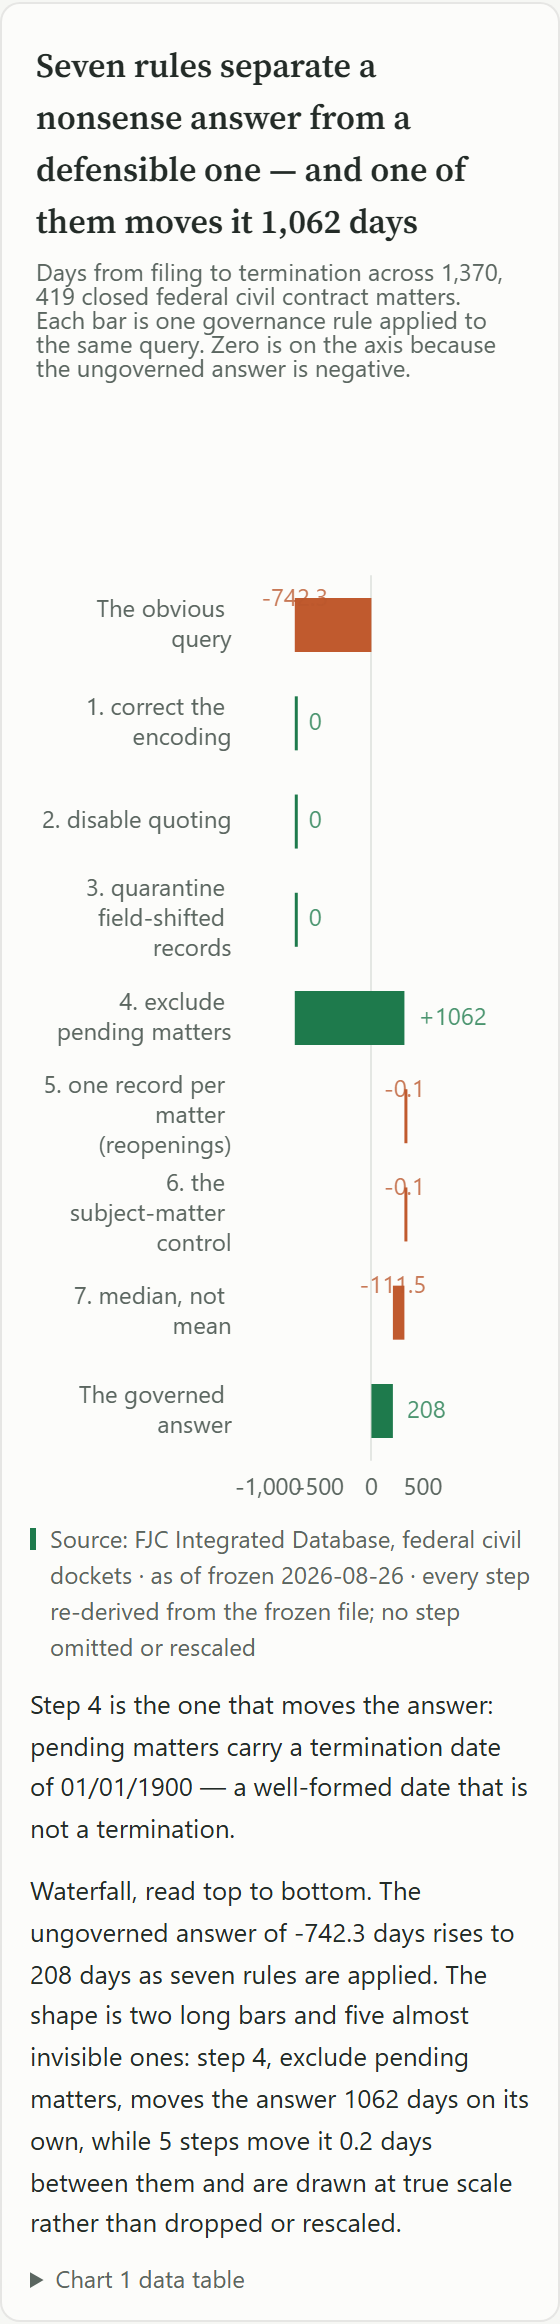
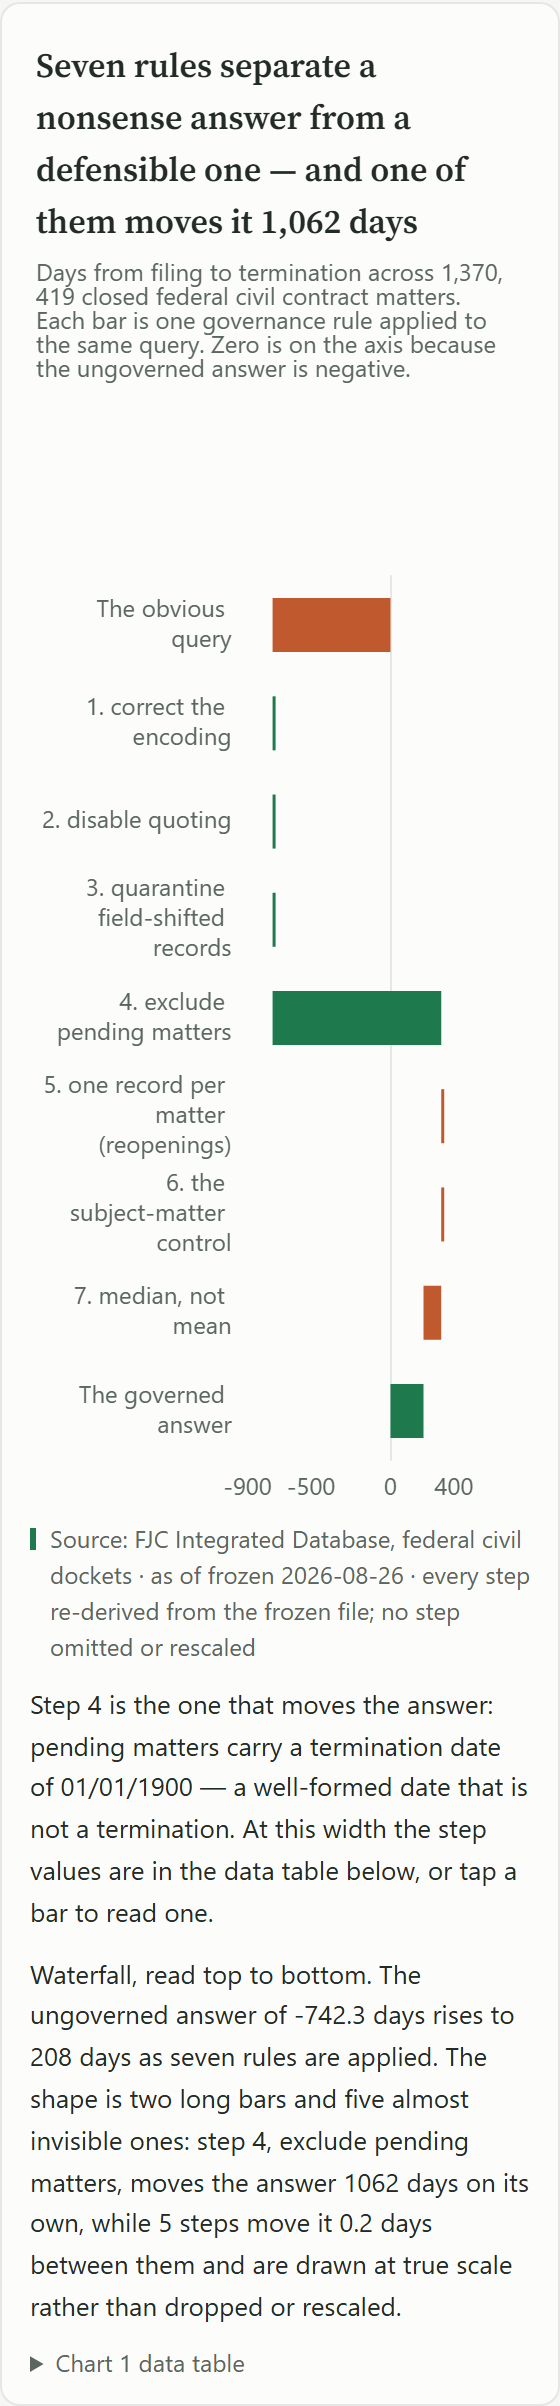
Chart 1 labels, and a tooltip gate that was reading the wrong thing
Aaron reported two things from a phone and a narrow desktop window. The first
was three defects stacked on top of each other.

LABELS OVER THEIR OWN BARS. Leftward bars used position 'top', and an ECharts
label position anchors to the DATA POINT, which sits at the row's vertical
centre -- not to the top of the rect. With distance 7 and a bar half-height
near 26px, "7px above the point" is 19px inside the bar. Rightward labels were
never affected, which is exactly why +1062 and the three zeros always looked
right and every negative value did not.

Fixing that moved the collision instead of ending it: at 320px the -742.3
label then landed on the CATEGORY label. Reserving room for a label is a
fixed-point problem and the original solved it once -- padding the axis widens
its range, which shrinks pixels-per-unit, which shrinks the gap the padding
just bought. Solving p*plotPx >= K*(R + 2p) for p closes the loop.

That exposed the real one. plotPx was ESTIMATED, and the estimate was 42%
wrong -- 146px where the measured ECharts grid is 103px at a 320px viewport.
Padding is proportional to 1/plotPx, so an over-estimated plot UNDER-reserves
room. That was the original cause of the whole class and no amount of position
tuning would have reached it. It is now measured, at four widths.

320px CANNOT BE SOLVED AND IS NOT PRETENDED OTHERWISE. A label needs ~57px at
each end of a 103px plot, so no padding value exists. Putting the label inside
[…]

diff --git a/docs/assets/page.js b/docs/assets/page.js
@@ -96,10 +96,21 @@
       // width sat between the two rendered widths and so was never checked.
       labelWidth: Math.max(96, Math.min(230, Math.round(w * 0.30))),
       gridRight: narrow ? 46 : 92,
-      // Rule 5.5 drop order step 1: the tooltip is the FIRST thing to go as
-      // the chart narrows, and CHART-REVIEW fails a hover-following tooltip
-      // at <=768 px outright. The data tables carry the values either way.
-      tooltip: w > 768,
+      // What CHART-REVIEW 5.5 fails is a HOVER-FOLLOWING tooltip at <=768 px,
+      // and the reason is touch: there is no hover, and a readout that chases
+      // the finger covers the mark it is describing. The old gate here read
+      // the WIDTH instead of the capability, which got both cases wrong -- a
+      // narrow desktop window has a mouse and lost its tooltip anyway, and a
+      // phone lost it for a reason that was never about size.
+      //
+      // So: ask the pointer what it is. A fine pointer that can hover keeps
+      // the hover tooltip at every width. Everything else gets the same
+      // readout on TAP, anchored above the plot rather than under the finger
+      // -- which is not a hover-following tooltip and does not engage 5.5.
+      // The data tables remain the guaranteed layer either way (Rule 5.1).
+      tooltip: true,
+      tapTip: !(window.matchMedia &&
+                window.matchMedia('(hover: hover) and (pointer: fine)').matches),
       abbrev: function (s) { return narrow && ABBREV[s] ? ABBREV[s] : s; }
     };
   }
@@ -124,6 +135,14 @@
       trigger: opts.trigger || 'item',
       confine: true,
       appendToBody: false,
+      // On touch the readout is summoned by a tap and pinned to the top of
+      // the chart, clear of the finger and of the mark being read. On a
+      // mouse it behaves as before.
+      triggerOn: L.tapTip ? 'click' : 'mousemove|mouseout',
+      position: L.tapTip ? function (pt, params, dom, rect, size) {
+        var x = Math.round((size.viewSize[0] - size.contentSize[0]) / 2);
+        return [Math.max(4, x), 4];
+      } : undefined,
       axisPointer: opts.trigger === 'axis' ? { type: 'line' } : undefined,
       formatter: opts.formatter
     };
@@ -281,8 +300,12 @@
       var t = sp.anchor ? String(sp.to) : (sp.delta > 0 ? '+' : '') + sp.delta;
       widestLabel = Math.max(widestLabel, _m.measureText(t).width);
     });
-    var plotPx = Math.max(120,
-      L.w - 8 - L.labelWidth - (L.narrow ? 40 : 92) - 30);
+    // Measured against the real ECharts grid rect, not estimated. The old
+    // expression returned 146 px at a 320 px viewport where the grid is
+    // actually 103 -- 42% too generous. Because the padding below is
+    // proportional to 1/plotPx, an over-estimated plot UNDER-reserves room,
+    // which is the original reason labels landed on their bars.
+    var plotPx = Math.max(60, L.w - L.labelWidth - 15 - L.gridRight);
     // The axis must cover EVERY span endpoint, not just the first and last
     // answers. The running total peaks at 319.8 after step 4 and then falls
     // back to 208, so bounds taken from start and end alone cut the axis at
@@ -292,7 +315,29 @@
     var pts = [0];
     spans.forEach(function (sp) { pts.push(sp.from, sp.to); });
     var dmin = Math.min.apply(null, pts), dmax = Math.max.apply(null, pts);
-    var pad = (widestLabel + 16) * ((dmax - dmin) / plotPx);
+    // Reserving room for a label is a FIXED-POINT problem and the first
+    // version solved it once, which is why 320 px still collided after the
+    // position fix. Padding the axis widens its range, which shrinks
+    // pixels-per-unit, which shrinks the very gap the padding just bought.
+    // Solving  p * plotPx >= K * (R + 2p)  for p closes the loop:
+    //
+    //     p >= K * R / (plotPx - 2K)
+    //
+    // 2K >= plotPx means no padding can ever fit a label at both ends -- the
+    // plot is simply too narrow. Inside-the-bar placement is the usual
+    // waterfall answer and is NOT available here: paper on madrona measures
+    // 4.31:1 and 12 px text needs 4.5:1, so it would trade a collision for a
+    // contrast failure. The label column yields instead; see layout().
+    var K = widestLabel + 16;
+    var R = dmax - dmin;
+    // Can a label fit OUTSIDE the far end of a bar at both ends at all? It
+    // needs K px at each end of a plotPx-wide plot, so below 2K there is no
+    // solution at any padding -- at a 320 px viewport that is 114 px wanted
+    // in a 103 px plot. The 1.2 is headroom: at exactly 2K the data would be
+    // squeezed to nothing and the waterfall would stop showing its shape.
+    var labelsFit = plotPx > 2 * K * 1.2;
+    var pad = labelsFit ? (K * R) / (plotPx - 2 * K)
+                        : R * 0.06;
     var lo = Math.floor((dmin - pad) / 100) * 100;
     var hi = Math.ceil((dmax + pad) / 100) * 100;
     var domIdx = 0;
@@ -352,8 +397,21 @@
           return {
             value: [s.to, i],
             label: {
-              show: true, fontFamily: SANS, fontSize: 12,
-              position: rightward ? 'right' : (L.narrow ? 'top' : 'left'),
+              // Rule 5.5 drop order: where the geometry cannot seat a label
+              // outside its bar, the label is DROPPED rather than printed
+              // over the mark or squeezed inside it. Inside is not available
+              // -- paper on madrona measures 4.31:1 and 12 px text needs
+              // 4.5:1. The values stay reachable: the tap/hover readout
+              // carries them, and the data table always has.
+              show: labelsFit, fontFamily: SANS, fontSize: 12,
+              // Always OUTSIDE the bar's far end. A narrow-width special
+              // case used 'top', which anchors to the data point at the
+              // ROW'S VERTICAL CENTRE rather than to the top of the rect --
+              // so "7px above the point" was 7px into a bar whose half
+              // height is ~26px, and every leftward label was bisected by
+              // its own bar. The axis already reserves room for the widest
+              // label (see `pad`), so 'left' fits at every width.
+              position: rightward ? 'right' : 'left',
               distance: 7,
               color: s.delta >= 0 ? INK.evergreen : INK.madrona,
               formatter: s.anchor ? String(s.to)
@@ -386,7 +444,10 @@
     if (c1note) {
       var c1Out = L.w < 900;
       c1note.textContent = c1Out
-        ? 'Step 4 is the one that moves the answer: pending matters carry a termination date of 01/01/1900 — a well-formed date that is not a termination.'
+        ? ('Step 4 is the one that moves the answer: pending matters carry a termination date of 01/01/1900 — a well-formed date that is not a termination.' +
+           // Say where the numbers went. A value that is silently absent
+           // reads as a value that does not exist.
+           (labelsFit ? '' : ' At this width the step values are in the data table below, or tap a bar to read one.'))
         : '';
       c1note.style.display = c1Out ? 'block' : 'none';
     }

diff --git a/governance/chart-review.md b/governance/chart-review.md
@@ -334,6 +334,74 @@ computed at build time from committed artifacts (`fact_docket_event.jsonl` and
 the response cache). K2 does not distinguish between a wrong number and a right
 number nobody can re-derive.
 
+---
+
+### Third round — Aaron's read on a phone and a narrow desktop, 2026-08-29
+
+Two reports, both reproduced before anything was changed. The second one
+turned out to be three defects wearing one coat.
+
+**F-19 · Chart 1 value labels drawn over their own bars.** Reported at ~465 px.
+Reproduced exactly. Cause: leftward bars used `position: 'top'`, and an
+ECharts label position anchors to the **data point**, which sits at the row's
+vertical centre — not to the top of the rect. With `distance: 7` and a bar
+half-height near 26 px, "7 px above the point" is 19 px *inside* the bar. The
+rightward labels were never affected, which is why `+1062` and the three `0`s
+always looked right and every negative value did not. **Fixed:** the position
+is now `right`/`left` at every width — always outside the far end.
+
+**F-20 · The axis padding was solved once, and reserving room is a fixed-point
+problem.** Fixing F-19 moved the collision rather than ending it: at 320 px
+`-742.3` then overlapped the *category* label. Padding the axis widens its
+range, which shrinks pixels-per-unit, which shrinks the gap the padding just
+bought. Solving `p·plotPx ≥ K·(R + 2p)` for `p` closes the loop.
+**Fixed**, and it exposed F-21 underneath.
+
+**F-21 · `plotPx` was estimated, and the estimate was 42% wrong.** Measured
+against the real ECharts grid rect at four widths:
+
+| viewport | host | real grid | old estimate |
+|---|---:|---:|---:|
+| 320 | 254 | **103** | 146 |
+| 390 | 324 | **173** | 195 |
+| 465 | 399 | **229** | 247 |
+| 1040 | 974 | **667** | 680 |
+
+Because the padding is proportional to `1/plotPx`, an over-estimated plot
+**under-reserves** room. This was the original cause of F-19's whole class,
+and no amount of position tuning would have reached it. **Fixed:** the
+estimate now matches the measured rect.
+
+**The 320 px case is geometrically impossible, and is handled by dropping the
+label rather than by pretending.** A label needs ~57 px at each end of a
+**103 px** plot. `2K > plotPx`, so no padding value exists. The usual
+waterfall answer — put the label inside the bar — is **not available here**:
+paper on madrona measures **4.31:1** and 12 px text needs 4.5:1 (paper on
+evergreen passes at 5.18:1, but a rule that works for one hue and not the
+other is not a rule). So below the fit threshold the value labels are dropped
+per Rule 5.5's drop order, the bars keep true scale, and the note under the
+chart says where the numbers went. Labels are present at 390 px and above.
+
+**F-22 · The tooltip gate read the width instead of the pointer.** Reported as
+"no hover popups on mobile"; the same gate also removed them from a *narrow
+desktop window*, which has a mouse. CHART-REVIEW 5.5 fails a **hover-following**
+tooltip at ≤768 px, and the reason is touch — there is no hover, and a readout
+that chases the finger covers the mark it describes. Width was a proxy for
+touch, and a bad one. **Fixed:** the gate is now
+`(hover: hover) and (pointer: fine)`. A fine pointer keeps the hover tooltip at
+every width; everything else gets the same readout **on tap, anchored to the
+top of the plot**, which is not hover-following and does not engage 5.5.
+
+Verified on an emulated touch context (`has_touch`, coarse pointer), not on a
+narrow window: all five charts return `triggerOn: 'click'` with the anchored
+position function, and the readout renders at top + 4 px inside the host. On a
+mouse at 465 px and 1040 px it stays `mousemove|mouseout`. **465 px now has a
+readout where the old gate gave it none.**
+
+The provenance strip stays at **three** segments — 4.4's fourth is required
+only where a control changes what is shown, and a readout changes nothing.
+K5 re-checked at 320, 390 and 465: `[3, 3, 3, 3, 3]`.
+
 ## 3 · Renders handed to the panel
 
 **Twelve files: five charts at two widths, plus a full-page render at each.**
